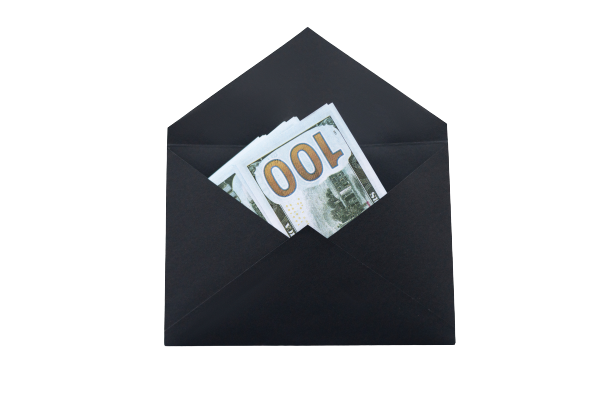
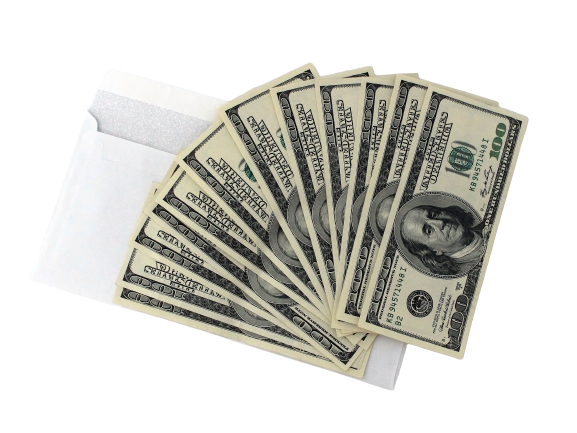
made changes to envelope css

diff --git a/src/app/core/containers/login/login.component.scss b/src/app/core/containers/login/login.component.scss
@@ -1,14 +1,10 @@
 @import "../../../shared/sass/main.scss";
 
 
-
 .splash-container {
     display: flex;
     justify-content: center;
     width: 100%;
-    margin-right: 4rem;
- 
-
 
 
 
@@ -16,29 +12,11 @@
 
     &__loggedOut
      {
-        padding: 1rem;
+      
          display: block;
          @include center;
          width: 100%;
          background-position: center;
-
-        &__form {
-            @include center;
-            width: 20%;
-            margin-top: 1.5rem;
-            padding: 2rem;
-            position: absolute;
-            left: 35%;
-            font-size: 1rem;
-
-            &__title { 
-                @include center;
-                width: 100%;
-                font-size: 1rem;
-             }
-
-        
-        }
 
       
 
@@ -49,9 +27,9 @@
                 img {   
                   
                  
-                    width: 20rem;
+                    width: 24rem;
                     margin-top: 32%;
-                    margin-left: 3rem;
+                    // margin-right: 1rem;
                 }
             }
 
@@ -73,9 +51,9 @@
             &-small {
      
                 img {   
-                    width:75%;
-                    margin-left: 3rem;
-                    margin-top: 3rem;
+                    width: 20rem;
+                    margin-left: 2rem;
+                    margin-top: 1rem;
           
                     
                     
@@ -85,9 +63,9 @@
             &-reg {
      
                 img {   
-                    margin-left: 30rem;
-                    width: 30%;
-                    margin-top: 3rem;
+                    margin-left: 35rem;
+                    width: 30rem;
+                    margin-top: 2rem;
                     
          
                 }
@@ -104,5 +82,3 @@
     }
 }
  
-@include  big-mat-forms;
-

diff --git a/src/app/core/containers/login/login.component.ts b/src/app/core/containers/login/login.component.ts
@@ -11,26 +11,7 @@ import { Subscription } from 'rxjs';
 
 @Component({
   selector: 'app-login',
-  template: `
-  <div class="splash-container">
-     <div class="splash-container__loggedOut">
-     <div 
-        [ngClass.lt-md]="{'splash-container__loggedOut__image-small': true}"
-        [ngClass.gt-sm]="{'splash-container__loggedOut__image-reg': true}"
-        >
-          <img src="../assets/piggybank.jpg" />
-       </div>
-          <div 
-            [ngClass.lt-md]="{'splash-container__loggedOut__button-small': true}"
-            [ngClass.gt-sm]="{'splash-container__loggedOut__button-reg': true}"
-            >
-          <img (click)="login()" src="../assets/google-light.png" />
-          </div>
-                
-    </div>
-</div>
-
-  `,
+  templateUrl: "./login.component.html",
   styleUrls: ['./login.component.scss']
 })
 export class LoginComponent implements OnInit {

diff --git a/src/app/layout/header/header.component.html b/src/app/layout/header/header.component.html
@@ -71,11 +71,11 @@
             <div class="column__income">
                 <div class="column__income__heading">
                     <img src="../../../assets/pig.png" alt="pig icon" [style.width.rem]="1.2">
-                     {{income ? income.unallocated : 0  | currency:'USD'}}
+                     {{(income ? income.unallocated : 0)  | currency:'USD'}}
                 </div>
                 <div class="column__income__heading">
                     <img src="../../../assets/email.png" alt="letter icon" [style.width.rem]="1.2">
-                     {{income ? income.allocated : 0 | currency:'USD'}}
+                     {{(income ? income.allocated : 0) | currency:'USD'}}
                 </div>
                 
             </div>

diff --git a/src/app/core/containers/login/login.component.html b/src/app/core/containers/login/login.component.html
@@ -1,0 +1,17 @@
+<div class="splash-container">
+    <div class="splash-container__loggedOut">
+    <div 
+       [ngClass.lt-md]="{'splash-container__loggedOut__image-small': true}"
+       [ngClass.gt-sm]="{'splash-container__loggedOut__image-reg': true}"
+       >
+         <img src="../../../../assets/envelope-budget.png" />
+      </div>
+         <div 
+           [ngClass.lt-md]="{'splash-container__loggedOut__button-small': true}"
+           [ngClass.gt-sm]="{'splash-container__loggedOut__button-reg': true}"
+           >
+         <img (click)="login()" src="../assets/google-light.png" />
+         </div>
+               
+   </div>
+</div>

diff --git a/src/app/shared/sass/_mixins.scss b/src/app/shared/sass/_mixins.scss
@@ -210,14 +210,14 @@
     border: 0.02 * $width solid darken(#eee8dc, 4%);
 
     &_heading {
-      font-size: $card-primary-heading;
+      font-size: $card-primary-heading * 1.2;
       clip-path: $clip;
-      height: 3rem;
+      height: 5rem;
       background-color: rgba(221, 196, 166, 0.3);
       padding-top: 0.2rem;
       text-align: center;
       text-transform: uppercase;
-      
+      margin-bottom: 1.5rem;
     }
 
     &-container {

diff --git a/src/app/shared/sass/_variables.scss b/src/app/shared/sass/_variables.scss
@@ -33,5 +33,5 @@ $header-button-width: 3.2rem;
 $header-button-background: rgb(173, 86, 28);
 
 //dialogs
-$clip: polygon(50% 100%, 0 0, 100% 0);
+$clip: polygon(100% 0, 0 0, 50% 100%);
 
